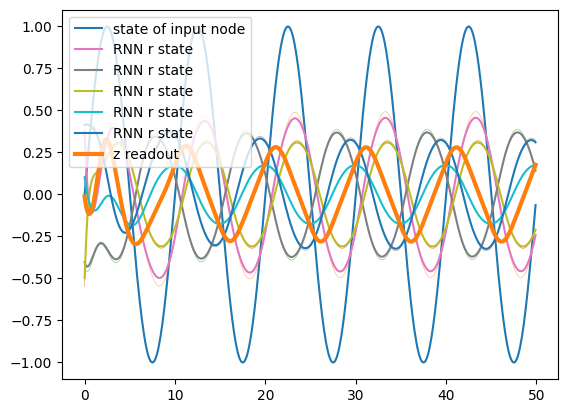
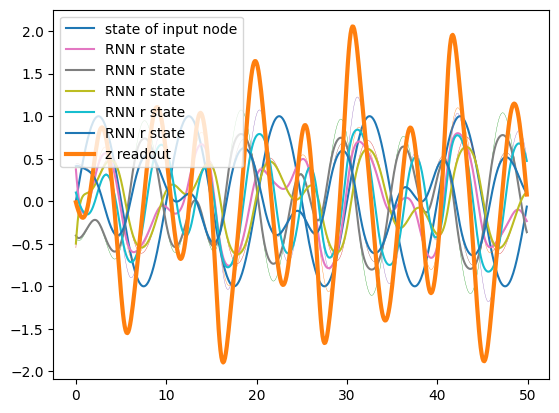
Initial examples with cyclic graphs, enabled by default_value on inputs

diff --git a/src/modeci_mdf/execution_engine.py b/src/modeci_mdf/execution_engine.py
@@ -566,9 +566,10 @@ class EvaluableParameter:
                     verbose=self.verbose,
                     array_format=array_format,
                 )
-                print(
-                    f"Incrementing {self.parameter.id} from {self.curr_value} by {td} over time {time_increment}"
-                )
+                if self.verbose:
+                    print(
+                        f"Incrementing {self.parameter.id} from {self.curr_value} by {td} over time {time_increment}"
+                    )
 
                 self.curr_value = np.add(
                     self.curr_value, td * time_increment, casting="safe"
@@ -679,7 +680,11 @@ class EvaluableInput:
     def __init__(self, input_port: InputPort, verbose: Optional[bool] = False):
         self.verbose = verbose
         self.input_port = input_port
-        self.curr_value = np.full(input_port.shape, 0)
+
+        if self.input_port.default_value is not None:
+            self.curr_value = self.input_port.default_value
+        else:
+            self.curr_value = np.full(input_port.shape, 0)
 
     def set_input_value(self, value: Union[str, int, np.ndarray]):
         """Set a new value at input port
@@ -1020,6 +1025,14 @@ class EvaluableGraph:
             ):  # It could have been already removed...
                 self.root_nodes.remove(edge.receiver)
 
+        if len(self.root_nodes) == 0:
+            for node in graph.nodes:
+                for ip in node.input_ports:
+                    if ip.default_value is not None:
+                        self.root_nodes.append(node.id)
+
+        print("Root nodes evaluated as: %s" % (self.root_nodes))
+
         self.ordered_edges = []
         evaluated_nodes = []
         for rn in self.root_nodes:
@@ -1034,6 +1047,8 @@ class EvaluableGraph:
             else:
                 self.ordered_edges.append(edge)
                 evaluated_nodes.append(edge.receiver)
+
+        print("Ordered_edges as: %s" % (self.ordered_edges))
 
         if self.graph.conditions is not None:
             if self.graph.conditions.node_specific is None:
@@ -1062,6 +1077,7 @@ class EvaluableGraph:
         else:
             conditions = {}
             termination_conds = {}
+
         self.scheduler = graph_scheduler.Scheduler(
             graph=self.graph.dependency_dict,
             conditions=conditions,
@@ -1133,9 +1149,16 @@ class EvaluableGraph:
             for node in ts:
                 self.order_of_execution.append(node.id)
                 for edge in incoming_edges[node]:
-                    self.evaluate_edge(
-                        edge, time_increment=time_increment, array_format=array_format
-                    )
+                    if edge.sender in self.order_of_execution:
+                        self.evaluate_edge(
+                            edge,
+                            time_increment=time_increment,
+                            array_format=array_format,
+                        )
+                    else:
+                        print(
+                            "> Not evaluating edge: %s, as sender not run yet..." % edge
+                        )
                 self.enodes[node.id].evaluate(
                     time_increment=time_increment, array_format=array_format
                 )

diff --git a/examples/MDF/networks/network.py b/examples/MDF/networks/network.py
@@ -1,0 +1,102 @@
+"""
+    Example of ModECI MDF - Testing networks
+"""
+
+from modeci_mdf.mdf import *
+import sys
+from modeci_mdf.utils import simple_connect
+
+
+def main(ref="acyclical"):
+
+    mod = Model(id="Net_%s" % ref)
+
+    mod_graph = Graph(id="Net_%s" % ref)
+    mod.graphs.append(mod_graph)
+
+    for id in ["A", "B"]:
+
+        node = Node(id=id)
+
+        if id == "A":
+            ip1 = InputPort(id="input_port", default_value=0)
+            node.input_ports.append(ip1)
+
+        if id == "B":
+            ip1 = InputPort(id="input_port")
+            node.input_ports.append(ip1)
+
+        p1 = Parameter(id="passed_token", value="input_port + 1")
+        node.parameters.append(p1)
+
+        p2 = Parameter(id="internal_count", value="internal_count + 1")
+        node.parameters.append(p2)
+
+        op1 = OutputPort(id="out_port", value=p1.id)
+        node.output_ports.append(op1)
+
+        mod_graph.nodes.append(node)
+
+    simple_connect(mod_graph.get_node("A"), mod_graph.get_node("B"), mod_graph)
+    simple_connect(mod_graph.get_node("B"), mod_graph.get_node("A"), mod_graph)
+
+    new_file = mod.to_json_file("%s.json" % mod.id)
+    new_file = mod.to_yaml_file("%s.yaml" % mod.id)
+
+    if "-run" in sys.argv:
+        verbose = True
+        # verbose = False
+        from modeci_mdf.utils import load_mdf, print_summary
+
+        from modeci_mdf.execution_engine import EvaluableGraph
+
+        eg = EvaluableGraph(mod_graph, verbose)
+        dt = 1
+
+        duration = 2
+        t = 0
+        recorded = {}
+        times = []
+        ai = []
+        bi = []
+        ao = []
+        bo = []
+        while t <= duration:
+            times.append(t)
+            print("======   Evaluating at t = %s  ======" % (t))
+            if t == 0:
+                eg.evaluate()  # replace with initialize?
+            else:
+                eg.evaluate(time_increment=dt)
+
+            ai.append(eg.enodes["A"].evaluable_parameters["internal_count"].curr_value)
+            bi.append(eg.enodes["B"].evaluable_parameters["internal_count"].curr_value)
+            ao.append(eg.enodes["A"].evaluable_outputs["out_port"].curr_value)
+            bo.append(eg.enodes["B"].evaluable_outputs["out_port"].curr_value)
+            t += dt
+
+        if "-nogui" not in sys.argv:
+            import matplotlib.pyplot as plt
+
+            plt.plot(times, ai, marker="x", label="A count")
+            plt.plot(times, bi, label="B count")
+            plt.plot(times, ao, marker="o", label="A token")
+            plt.plot(times, bo, label="B token")
+            plt.legend()
+            plt.show()
+
+    if "-graph" in sys.argv:
+        mod.to_graph_image(
+            engine="dot",
+            output_format="png",
+            view_on_render=False,
+            level=3,
+            filename_root=mod_graph.id,
+            only_warn_on_fail=True,  # Makes sure test of this doesn't fail on Windows on GitHub Actions
+        )
+
+    return mod_graph
+
+
+if __name__ == "__main__":
+    main()

diff --git a/src/modeci_mdf/mdf.py b/src/modeci_mdf/mdf.py
@@ -98,12 +98,14 @@ class InputPort(MdfBase):
 
     Attributes:
         id: The unique (for this Node) id of the input port,
+        default_value: Value to set at this input port if no edge connected to it.
         shape: The shape of the input port. This uses the same syntax as numpy ndarray shapes
             (e.g., :code:`numpy.zeros(shape)` would produce an array with the correct shape
         type: The data type of the input received at a port.
 
     """
     id: str = field(validator=instance_of(str))
+    default_value: Optional[ValueExprType] = field(default=None)
     shape: Optional[Tuple[int, ...]] = field(
         validator=optional(instance_of(tuple)),
         default=None,
@@ -480,7 +482,10 @@ class Graph(MdfBase):
             sender = self.get_node(edge.sender)
             receiver = self.get_node(edge.receiver)
 
-            dependencies[receiver].add(sender)
+            if receiver.get_input_port(edge.receiver_port).default_value is not None:
+                pass
+            else:
+                dependencies[receiver].add(sender)
 
         return dependencies
 

diff --git a/examples/MDF/RNN/utils.py b/examples/MDF/RNN/utils.py
@@ -8,11 +8,11 @@ def create_rnn_node(id, N, g, seed=1234):
 
     ## RNN node...
     rnn_node = Node(id=id)
-    ipr1 = InputPort(id="ext_input")
-    rnn_node.input_ports.append(ipr1)
+    ext_ip = InputPort(id="ext_input")
+    rnn_node.input_ports.append(ext_ip)
 
-    ipr2 = InputPort(id="fb_input")
-    rnn_node.input_ports.append(ipr2)
+    fb_ip = InputPort(id="fb_input", default_value=0)
+    rnn_node.input_ports.append(fb_ip)
 
     default_initial_value = np.zeros(N)
     default_initial_value = 2 * np.random.random(N) - 1
@@ -26,7 +26,7 @@ def create_rnn_node(id, N, g, seed=1234):
     x = Parameter(
         id="x",
         default_initial_value=default_initial_value,
-        time_derivative="-x + g*int_fb + %s" % ipr1.id,
+        time_derivative=f"-x + g*int_fb + {ext_ip.id} + {fb_ip.id}",
     )
     rnn_node.parameters.append(x)
 

diff --git a/examples/MDF/RNN/generate_rnn.py b/examples/MDF/RNN/generate_rnn.py
@@ -86,16 +86,15 @@ def main():
     )
     mod_graph.edges.append(e2)
 
-    """
     e3 = Edge(
         id="feedback_edge",
-        parameters={"weight": 0.1},
+        parameters={"weight": 0.3},
         sender=readout_node.id,
         sender_port=readout_node.get_output_port("z").id,
         receiver=rnn_node.id,
         receiver_port=rnn_node.get_input_port("fb_input").id,
     )
-    mod_graph.edges.append(e3)"""
+    mod_graph.edges.append(e3)
 
     if N < 100:
         new_file = mod.to_json_file("%s.json" % mod.id)

diff --git a/docs/sphinx/source/api/Specification.rst b/docs/sphinx/source/api/Specification.rst
@@ -87,15 +87,16 @@ The `InputPort <#inputport>`__ is an attribute of a Node which allows external i
 
 **Allowed parameters**
 
-===============  ================================  =============================================================================================
-Allowed field    Data Type                         Description
-===============  ================================  =============================================================================================
-**metadata**     Union[Any, NoneType]              Optional metadata field, an arbitrary dictionary of string keys and JSON serializable values.
-**id**           str                               The unique (for this Node) id of the input port,
-**shape**        Union[Tuple[int, ...], NoneType]  The shape of the input port. This uses the same syntax as numpy ndarray shapes
-                                                   (e.g., **numpy.zeros(shape)** would produce an array with the correct shape
-**type**         Union[str, NoneType]              The data type of the input received at a port.
-===============  ================================  =============================================================================================
+=================  ==========================================================================  =============================================================================================
+Allowed field      Data Type                                                                   Description
+=================  ==========================================================================  =============================================================================================
+**metadata**       Union[Any, NoneType]                                                        Optional metadata field, an arbitrary dictionary of string keys and JSON serializable values.
+**id**             str                                                                         The unique (for this Node) id of the input port,
+**default_value**  Union[EvaluableExpression, List, Dict, ndarray, int, float, str, NoneType]  Value to set at this input port if no edge connected to it.
+**shape**          Union[Tuple[int, ...], NoneType]                                            The shape of the input port. This uses the same syntax as numpy ndarray shapes
+                                                                                               (e.g., **numpy.zeros(shape)** would produce an array with the correct shape
+**type**           Union[str, NoneType]                                                        The data type of the input received at a port.
+=================  ==========================================================================  =============================================================================================
 
 ========
 Function

diff --git a/docs/README.md b/docs/README.md
@@ -180,6 +180,13 @@ The <a href="#inputport">InputPort</a> is an attribute of a Node which allows ex
 
 
   <tr>
+    <td><b>default_value</b></td>
+    <td>Union[EvaluableExpression, List, Dict, ndarray, int, float, str, NoneType]</td>
+    <td><i>Value to set at this input port if no edge connected to it.</i></td>
+ </tr>
+
+
+  <tr>
     <td><b>shape</b></td>
     <td>Union[Tuple[int, ...], NoneType]</td>
     <td><i>The shape of the input port. This uses the same syntax as numpy ndarray shapes
